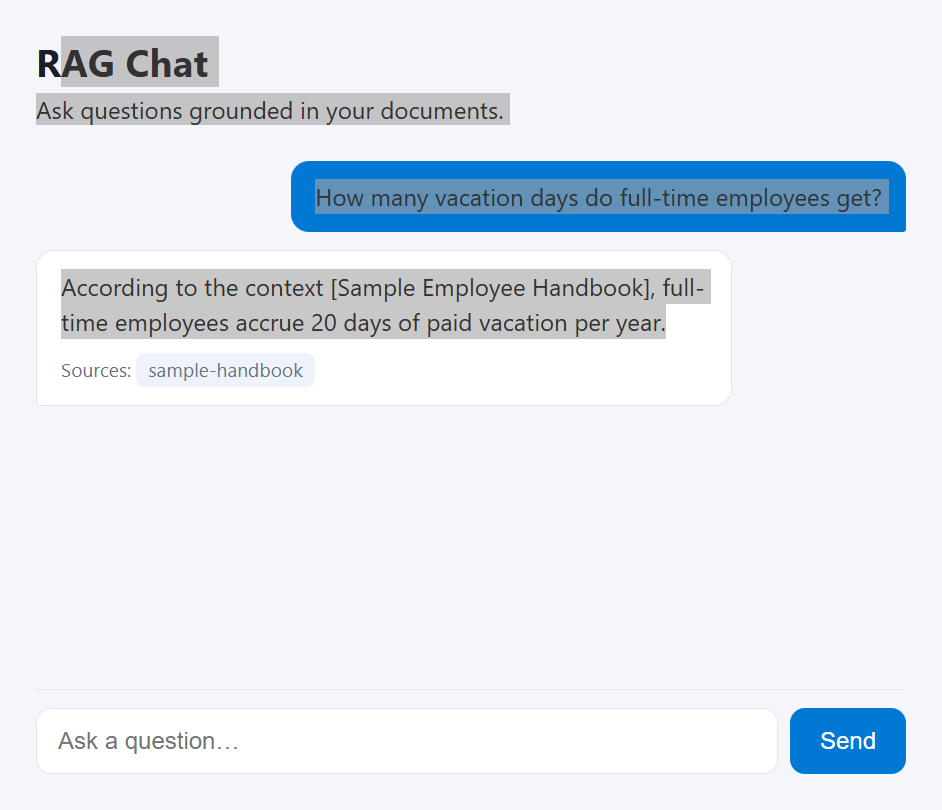
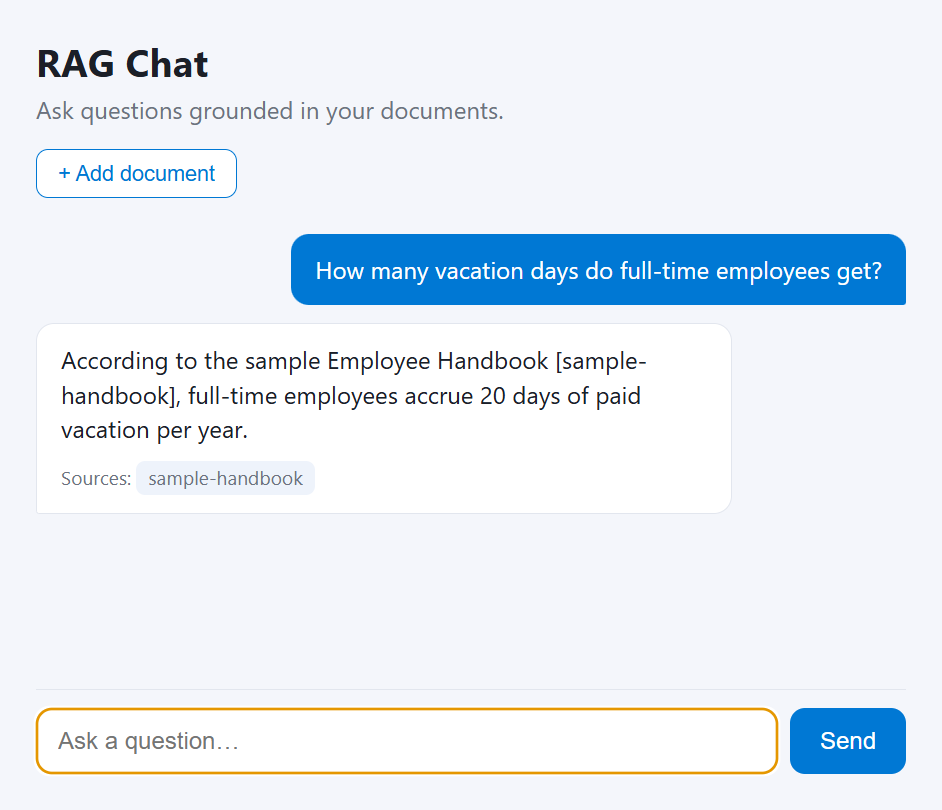
Add in-browser document upload (md, txt, pdf, docx)

diff --git a/frontend/style.css b/frontend/style.css
@@ -38,6 +38,46 @@ header h1 {
   color: var(--muted);
 }
 
+.upload-bar {
+  display: flex;
+  align-items: center;
+  gap: 10px;
+  margin-bottom: 16px;
+  flex-wrap: wrap;
+}
+
+.upload-button {
+  padding: 7px 14px;
+  background: var(--panel);
+  color: var(--accent);
+  border: 1px solid var(--accent);
+  border-radius: 8px;
+  font-size: 0.9rem;
+  cursor: pointer;
+}
+
+.upload-button:hover {
+  background: #eef3fb;
+}
+
+.upload-button:disabled {
+  opacity: 0.6;
+  cursor: default;
+}
+
+.upload-status {
+  font-size: 0.85rem;
+  color: var(--muted);
+}
+
+.upload-status.ok {
+  color: #137333;
+}
+
+.upload-status.error {
+  color: #c5221f;
+}
+
 .messages {
   flex: 1;
   overflow-y: auto;

diff --git a/frontend/app.js b/frontend/app.js
@@ -2,6 +2,9 @@ const form = document.getElementById("chat-form");
 const input = document.getElementById("question");
 const messages = document.getElementById("messages");
 const button = form.querySelector("button");
+const fileInput = document.getElementById("file-input");
+const uploadButton = document.getElementById("upload-button");
+const uploadStatus = document.getElementById("upload-status");
 
 function addBubble(text, role) {
   const bubble = document.createElement("div");
@@ -54,5 +57,33 @@ form.addEventListener("submit", async (event) => {
   } finally {
     button.disabled = false;
     input.focus();
+  }
+});
+
+uploadButton.addEventListener("click", () => fileInput.click());
+
+fileInput.addEventListener("change", async () => {
+  const file = fileInput.files[0];
+  if (!file) return;
+
+  uploadButton.disabled = true;
+  uploadStatus.className = "upload-status";
+  uploadStatus.textContent = `Indexing “${file.name}”…`;
+
+  const body = new FormData();
+  body.append("file", file);
+
+  try {
+    const response = await fetch("/api/upload", { method: "POST", body });
+    const data = await response.json();
+    if (!response.ok) throw new Error(data.detail || `Failed: ${response.status}`);
+    uploadStatus.classList.add("ok");
+    uploadStatus.textContent = data.message;
+  } catch (error) {
+    uploadStatus.classList.add("error");
+    uploadStatus.textContent = `Error: ${error.message}`;
+  } finally {
+    uploadButton.disabled = false;
+    fileInput.value = "";
   }
 });

diff --git a/frontend/index.html b/frontend/index.html
@@ -11,6 +11,18 @@
       <header>
         <h1>RAG Chat</h1>
         <p class="subtitle">Ask questions grounded in your documents.</p>
+        <div class="upload-bar">
+          <input
+            id="file-input"
+            type="file"
+            accept=".md,.txt,.pdf,.docx"
+            hidden
+          />
+          <button id="upload-button" type="button" class="upload-button">
+            + Add document
+          </button>
+          <span id="upload-status" class="upload-status"></span>
+        </div>
       </header>
 
       <section id="messages" class="messages" aria-live="polite"></section>

diff --git a/backend/app.py b/backend/app.py
@@ -3,12 +3,13 @@ from __future__ import annotations
 
 import os
 
-from fastapi import FastAPI
+from fastapi import FastAPI, File, HTTPException, UploadFile
 from fastapi.middleware.cors import CORSMiddleware
 from fastapi.responses import FileResponse
 from fastapi.staticfiles import StaticFiles
 from pydantic import BaseModel
 
+from .ingest import DATA_DIR, SUPPORTED_EXTENSIONS, ingest
 from .rag import answer_question
 
 FRONTEND_DIR = os.path.join(os.path.dirname(os.path.dirname(__file__)), "frontend")
@@ -37,6 +38,12 @@ class ChatResponse(BaseModel):
     sources: list[SourceModel]
 
 
+class UploadResponse(BaseModel):
+    filename: str
+    chunks: int
+    message: str
+
+
 @app.get("/api/health")
 def health() -> dict[str, str]:
     return {"status": "ok"}
@@ -48,6 +55,35 @@ def chat(request: ChatRequest) -> ChatResponse:
     return ChatResponse(
         answer=result.text,
         sources=[SourceModel(title=s.title, content=s.content) for s in result.sources],
+    )
+
+
[email redacted]("/api/upload", response_model=UploadResponse)
+async def upload(file: UploadFile = File(...)) -> UploadResponse:
+    """Save an uploaded document to data/ and rebuild the index."""
+    filename = os.path.basename(file.filename or "")
+    if not filename:
+        raise HTTPException(status_code=400, detail="No filename provided.")
+
+    extension = os.path.splitext(filename)[1].lower()
+    if extension not in SUPPORTED_EXTENSIONS:
+        raise HTTPException(
+            status_code=400,
+            detail=f"Unsupported file type '{extension}'. "
+            f"Allowed: {', '.join(SUPPORTED_EXTENSIONS)}.",
+        )
+
+    os.makedirs(DATA_DIR, exist_ok=True)
+    destination = os.path.join(DATA_DIR, filename)
+    contents = await file.read()
+    with open(destination, "wb") as handle:
+        handle.write(contents)
+
+    chunks = ingest()
+    return UploadResponse(
+        filename=filename,
+        chunks=chunks,
+        message=f"Indexed '{filename}'. Knowledge base now has {chunks} chunks.",
     )
 
 

diff --git a/backend/ingest.py b/backend/ingest.py
@@ -135,7 +135,7 @@ def _read_chunks():
             yield title, chunk
 
 
-def ingest() -> None:
+def ingest() -> int:
     settings = get_settings()
     documents = [
         {
@@ -149,7 +149,7 @@ def ingest() -> None:
 
     if not documents:
         print("No documents found in data/.")
-        return
+        return 0
 
     if settings.provider == "azure":
         ensure_index()
@@ -161,6 +161,8 @@ def ingest() -> None:
             f"Ingested {len(documents)} chunks into local index "
             f"({settings.local_index_path})."
         )
+
+    return len(documents)
 
 
 if __name__ == "__main__":

diff --git a/README.md b/README.md
@@ -11,7 +11,10 @@ and free** with [Ollama](https://ollama.com) — no cloud account required.
 ![RAG Chat answering a question grounded in a source document](docs/demo.png)
 
 The app retrieves the most relevant chunks from your documents and answers using
-only that context, citing its sources — so it doesn't make things up.
+only that context, citing its sources — so it doesn't make things up. You can
+add documents straight from the browser with the **+ Add document** button
+(Markdown, plain text, PDF, or Word), or drop files into the `data/` folder and
+run the ingest command.
 
 ## Project structure
 